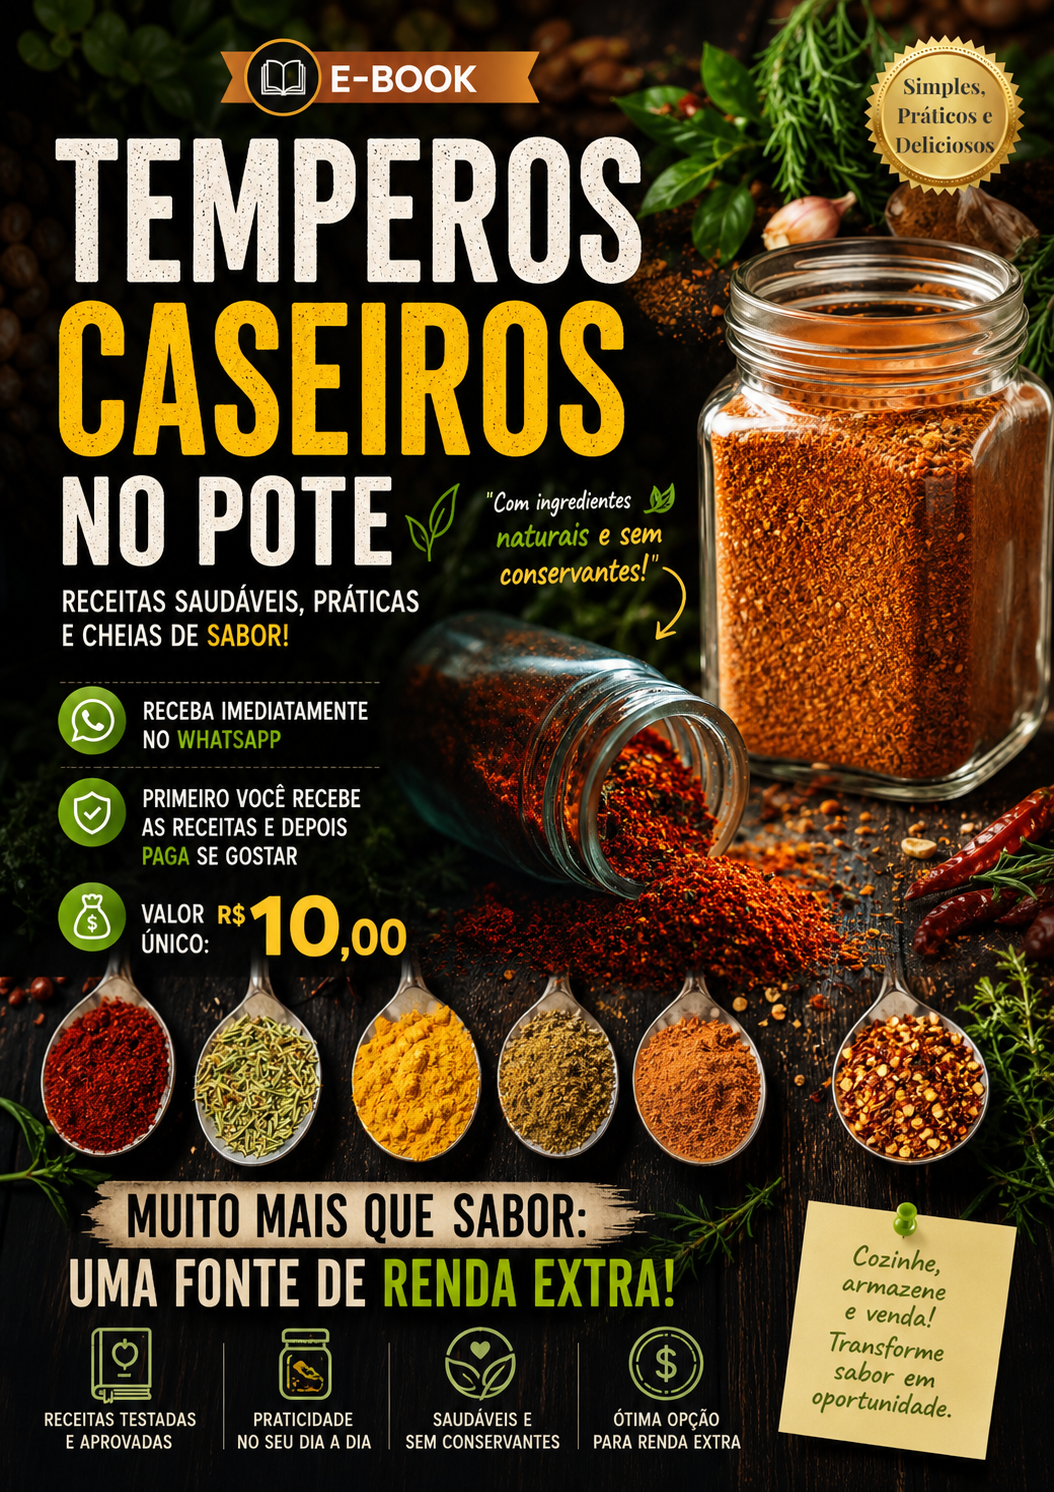
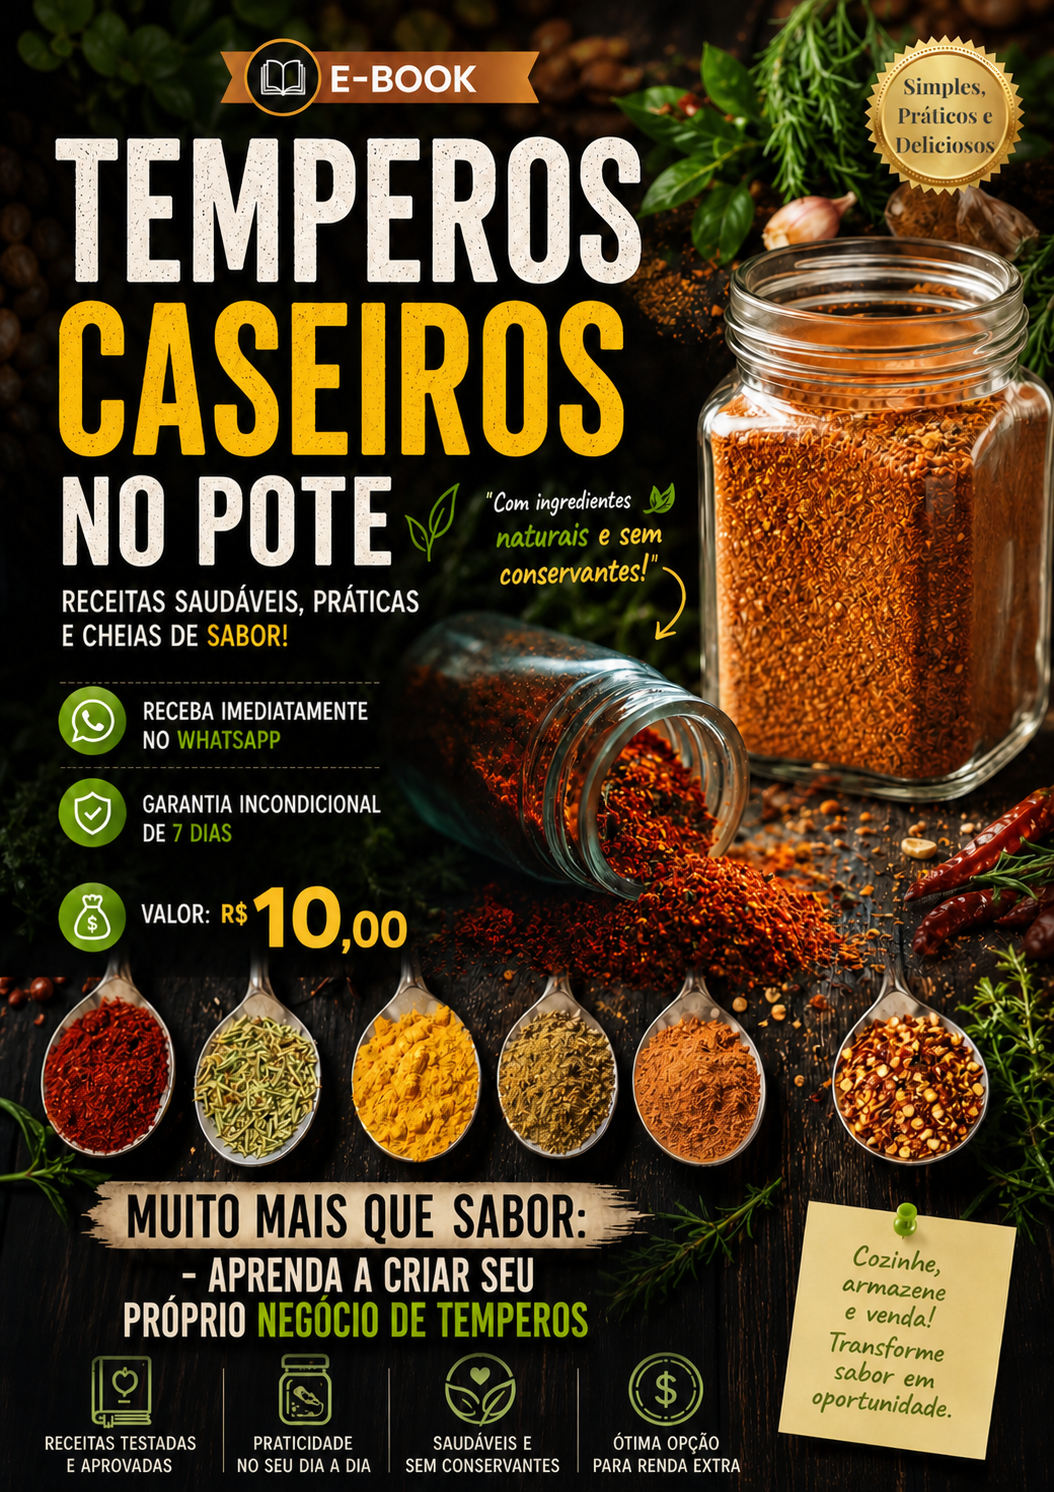
ajusta site para ficar em compliance no google ads

diff --git a/app/templates/tempero.html b/app/templates/tempero.html
@@ -523,6 +523,10 @@
       <a href="/termos-de-uso">Termos de Uso</a>
       <a href="/contato">Contato</a>
     </div>
+    <p style="margin-top:12px;font-size:10px;color:#aaa;line-height:1.5;text-align:left">
+      <strong style="display:block;margin-bottom:4px">Aviso Legal</strong>
+      Os resultados referentes à comercialização dos temperos descritos neste e-book podem variar de pessoa para pessoa. O sucesso financeiro depende exclusivamente da dedicação, esforço individual, aplicação das técnicas ensinadas e das condições de mercado de cada região. Não garantimos ganhos fixos ou resultados específicos. Ao adquirir este material, você concorda que é o único responsável por suas ações e decisões. Este site não faz parte do Google Inc. ou do Facebook Inc. Além disso, este site NÃO é endossado pelo Google ou Facebook de qualquer maneira.
+    </p>
   </footer>
   <script>
     const loader = document.getElementById('loader');
